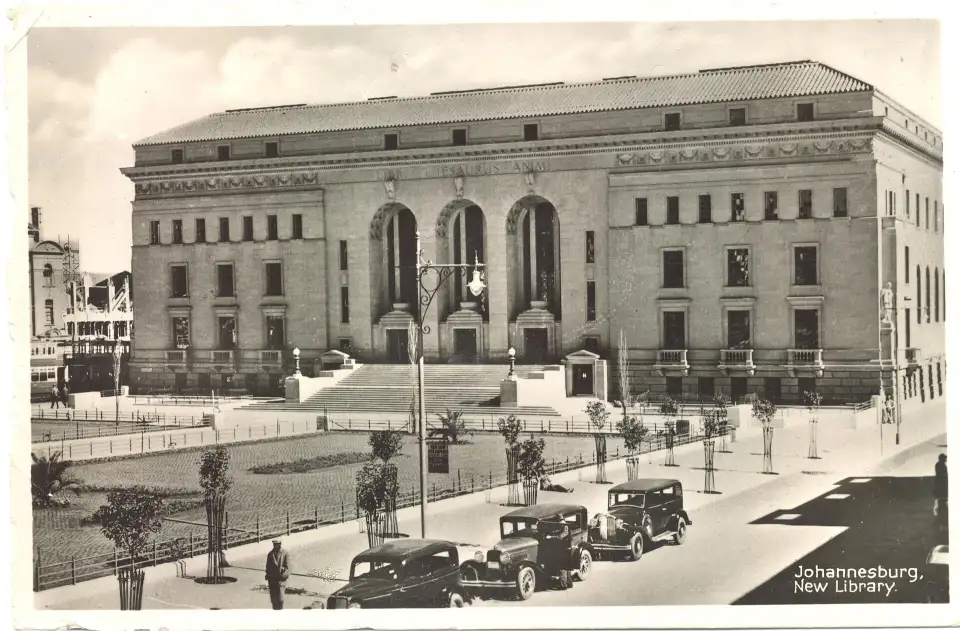
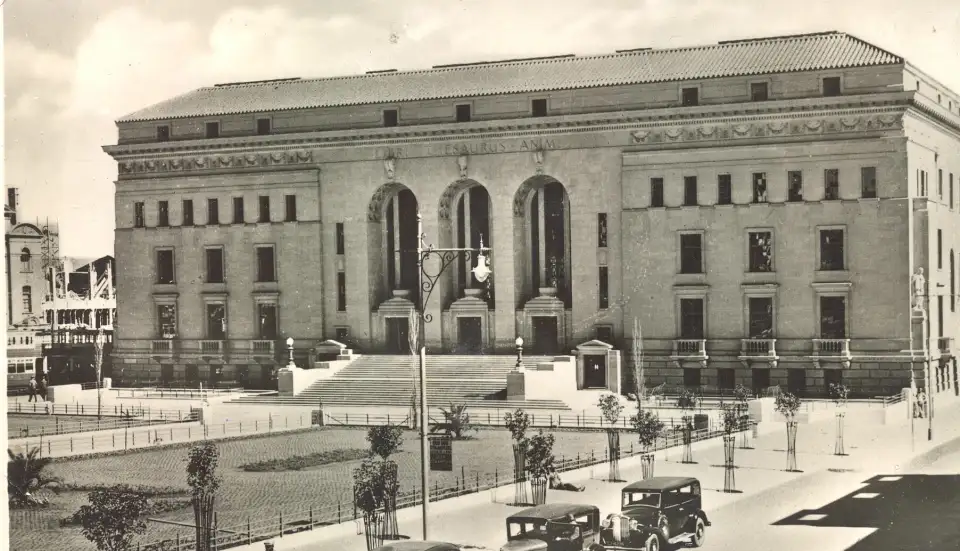
R-47 ds: finish-review fixes (stage colours as data only, no shadows at rest, no sticky sheets, word spacing, heading order, re-cropped archival photos, shelf at the fold)

diff --git a/resources/css/ds/landing.css b/resources/css/ds/landing.css
@@ -8,6 +8,7 @@
     font-size: var(--td-text-display);
     line-height: var(--td-leading-display);
     letter-spacing: -0.02em;
+    word-spacing: 0.12em;
     color: var(--td-ink);
 }
 
@@ -40,6 +41,7 @@
     font-size: var(--td-text-2xl);
     line-height: 1.04;
     letter-spacing: -0.015em;
+    word-spacing: 0.12em;
     max-width: 18ch;
 }
 
@@ -78,7 +80,7 @@
 
 /* Hero */
 .lp-hero {
-    padding-block: var(--td-space-6) var(--td-space-8);
+    padding-block: var(--td-space-6) var(--td-space-7);
 }
 
 .lp-hero__grid {
@@ -89,7 +91,11 @@
 
 @media (min-width: 64rem) {
     .lp-hero {
-        padding-block: var(--td-space-7) var(--td-space-9);
+        padding-block: var(--td-space-6) var(--td-space-7);
+    }
+
+    .lp-rooms {
+        padding-top: var(--td-space-7);
     }
 
     .lp-hero__grid {
@@ -122,8 +128,7 @@
     margin: calc(var(--td-space-7) * -1) var(--td-space-4) 0;
     padding: var(--td-space-4) var(--td-space-5) var(--td-space-5);
     background: var(--td-surface);
-    border: 1px solid var(--td-line); /* taste-skill-ignore: interface fragment (data-ui) or a real list of languages */
-    box-shadow: var(--td-shadow-float); /* taste-skill-ignore: interface fragment (data-ui) or a real list of languages */
+    border: 1px solid var(--td-edge);
     max-width: 26rem;
 }
 
@@ -373,9 +378,10 @@
     font-family: var(--td-font-display);
     font-stretch: 62%;
     font-weight: 780;
-    font-size: clamp(3.25rem, 1rem + 9vw, 9.5rem);
-    line-height: 0.92;
+    font-size: clamp(3rem, 1rem + 5.6vw, 6rem);
+    line-height: 0.95;
     letter-spacing: -0.02em;
+    word-spacing: 0.14em;
     white-space: nowrap;
     color: var(--td-ink);
 }
@@ -394,10 +400,8 @@
     position: relative;
     padding: var(--td-space-5);
     background: var(--td-surface);
-    border: 1px solid var(--td-line); /* taste-skill-ignore: interface fragment (data-ui) or a real list of languages */
-    box-shadow: var(--td-shadow-float); /* taste-skill-ignore: interface fragment (data-ui) or a real list of languages */
+    border: 1px solid var(--td-edge);
     max-width: 30rem;
-    margin-top: calc(var(--td-space-8) * -1);
     margin-inline-start: auto;
 }
 
@@ -417,7 +421,7 @@
     gap: var(--td-space-2);
     margin-top: var(--td-space-5);
     padding-top: var(--td-space-4);
-    border-top: 1px solid var(--td-line); /* taste-skill-ignore: interface fragment (data-ui) or a real list of languages */
+    border-top: 1px solid var(--td-line);
 }
 
 .lp-how__text .lp-h2 {
@@ -440,17 +444,16 @@
         grid-row: 1 / 3;
     }
 
-    .lp-how__card {
-        grid-column: 8 / 13;
-        grid-row: 1;
-        margin: var(--td-space-8) 0 0;
-        align-self: start;
-    }
-
     .lp-how__text {
         grid-column: 8 / 13;
+        grid-row: 1;
+    }
+
+    .lp-how__card {
+        grid-column: 7 / 13;
         grid-row: 2;
-        align-self: end;
+        margin: 0;
+        align-self: start;
     }
 }
 
@@ -470,27 +473,27 @@
     display: grid;
     gap: var(--td-space-5);
     padding: var(--td-space-5);
-    min-height: 70svh;
     align-content: start;
 }
 
 .lp-sheet--learn {
-    background: var(--td-stage-foundation);
-    color: var(--td-stage-foundation-ink);
+    background: var(--td-sunken);
+    color: var(--td-ink);
 }
 
 .lp-sheet--teach {
-    background: var(--td-stage-doctoral);
-    color: var(--td-stage-doctoral-ink);
+    background: var(--td-deep);
+    color: var(--td-deep-ink);
 }
 
 .lp-sheet--guard {
-    background: var(--td-stage-senior);
-    color: var(--td-stage-senior-ink);
+    background: var(--td-primary-soft);
+    color: var(--td-primary-soft-ink);
 }
 
 .lp-sheet__title {
     margin: 0 0 var(--td-space-4);
+    word-spacing: 0.12em;
     font-family: var(--td-font-display);
     font-stretch: var(--td-display-stretch);
     font-weight: 760;
@@ -540,9 +543,9 @@
 }
 
 .lp-sheet .td-btn--primary {
-    --td-btn-bg: var(--td-stage-doctoral-ink);
-    --td-btn-ink: var(--td-stage-doctoral);
-    --td-btn-edge: var(--td-stage-doctoral-ink);
+    --td-btn-bg: var(--td-deep-ink);
+    --td-btn-ink: var(--td-deep);
+    --td-btn-edge: var(--td-deep-ink);
     --td-btn-bg-hover: var(--td-inverse-hover);
     --td-btn-bg-press: var(--td-inverse-press);
 }
@@ -553,33 +556,18 @@
 
 @media (min-width: 64rem) {
     .lp-sheets {
-        gap: 0;
+        gap: var(--td-space-1);
     }
 
     .lp-sheet {
-        position: sticky;
-        top: var(--td-space-5);
         grid-template-columns: minmax(0, 5fr) minmax(0, 6fr);
         gap: var(--td-space-8);
         padding: var(--td-space-7);
-        min-height: 36rem;
-        align-items: end;
+        align-items: center;
     }
 
-    .lp-sheet + .lp-sheet {
-        margin-top: var(--td-space-8);
-    }
-
-    .lp-sheet--teach {
-        top: calc(var(--td-space-5) + 4.5rem);
-    }
-
-    .lp-sheet--guard {
-        top: calc(var(--td-space-5) + 9rem);
-    }
-
-    .lp-sheet__text {
-        align-self: start;
+    .lp-sheet--teach .lp-sheet__text {
+        order: 2;
     }
 }
 
@@ -604,7 +592,7 @@
 .lp-langsheet {
     padding: var(--td-space-6) var(--td-space-5);
     background: var(--td-surface);
-    border: 1px solid var(--td-line); /* taste-skill-ignore: interface fragment (data-ui) or a real list of languages */
+    border: 1px solid var(--td-line);
 }
 
 @media (min-width: 48rem) {
@@ -638,7 +626,7 @@
     align-items: baseline;
     gap: var(--td-space-3);
     padding: var(--td-space-2) 0;
-    border-bottom: 1px solid var(--td-line); /* taste-skill-ignore: interface fragment (data-ui) or a real list of languages */
+    border-bottom: 1px solid var(--td-line);
     break-inside: avoid;
     font-family: var(--td-font-display);
     font-stretch: 85%;
@@ -665,7 +653,7 @@
 .lp-close {
     position: relative;
     overflow: clip;
-    background: var(--td-stage-undergraduate);
+    background: var(--td-deep);
 }
 
 .lp-close__img {
@@ -674,9 +662,8 @@
     width: 100%;
     height: 100%;
     object-fit: cover;
-    filter: grayscale(1) contrast(1.1);
-    mix-blend-mode: multiply;
-    opacity: 0.7;
+    filter: grayscale(1) contrast(1.05);
+    opacity: 0.38;
 }
 
 .lp-close__inner {

diff --git a/resources/css/ds/tokens.css b/resources/css/ds/tokens.css
@@ -109,6 +109,10 @@
     --td-radius: 0.25rem;
     --td-radius-pill: 999px;
 
+    /* Deep reading-room green: the footer and inverse bands. Dark in both themes. */
+    --td-deep: oklch(26% 0.035 165);
+    --td-deep-ink: oklch(96% 0.01 165);
+
     /* Scrim behind dialogs and the drawer. */
     --td-scrim: oklch(20% 0.02 165 / 0.55);
 
@@ -202,6 +206,7 @@
         --td-info-ink: oklch(86% 0.06 255);
         --td-shadow-float: 0 12px 32px -8px oklch(5% 0.01 165 / 0.7), 0 2px 6px oklch(5% 0.01 165 / 0.5);
         --td-stage-fet-text: oklch(74% 0.11 262);
+        --td-deep: oklch(13.5% 0.012 165);
     }
 }
 
@@ -240,4 +245,5 @@
     --td-info-ink: oklch(86% 0.06 255);
     --td-shadow-float: 0 12px 32px -8px oklch(5% 0.01 165 / 0.7), 0 2px 6px oklch(5% 0.01 165 / 0.5);
     --td-stage-fet-text: oklch(74% 0.11 262);
+    --td-deep: oklch(13.5% 0.012 165);
 }

diff --git a/resources/css/ds/shells.css b/resources/css/ds/shells.css
@@ -113,8 +113,8 @@
 }
 
 .td-public-foot {
-    background: var(--td-stage-doctoral);
-    color: var(--td-stage-doctoral-ink);
+    background: var(--td-deep);
+    color: var(--td-deep-ink);
 }
 
 .td-public-foot a {
@@ -171,13 +171,13 @@
     justify-content: space-between;
     gap: var(--td-space-3);
     padding-block: var(--td-space-4) var(--td-space-5);
-    border-top: 1px solid color-mix(in oklch, var(--td-stage-doctoral-ink) 22%, transparent);
+    border-top: 1px solid color-mix(in oklch, var(--td-deep-ink) 22%, transparent);
     font-size: var(--td-text-sm);
 }
 
 .td-public-foot :focus-visible {
-    outline-color: var(--td-stage-doctoral-ink);
-    box-shadow: 0 0 0 2px var(--td-stage-doctoral);
+    outline-color: var(--td-deep-ink);
+    box-shadow: 0 0 0 2px var(--td-deep);
 }
 
 /* ---------- Signed-in shells ---------- */

diff --git a/resources/views/welcome.blade.php b/resources/views/welcome.blade.php
@@ -151,6 +151,11 @@
                 <span class="lp-how__line is-faint">in isiZulu</span>
                 <span class="lp-how__line is-faint">after school</span>
             </div>
+            <div class="lp-how__text">
+                <h2 id="how-title" class="lp-h2">Matches that explain themselves</h2>
+                <p>Write your request the way you would say it. Dot.Tutor checks subject, level, curriculum, language, times and budget, and tells you which ones fit and which do not.</p>
+                <p>Language is matched on what a tutor can actually teach in, never on the language of your screen.</p>
+            </div>
             <div class="lp-how__card" data-ui>
                 <p class="lp-how__card-head">How a match explains itself <span>(example)</span></p>
                 <x-td.match-reasons label="Example match reasons" :reasons="[
@@ -164,11 +169,6 @@
                     <x-td.verify-badge status="verified" level="qualified" />
                     <x-td.language-chip code="zu" name="Zulu" endonym="isiZulu" role="teaches" verified match />
                 </div>
-            </div>
-            <div class="lp-how__text">
-                <h2 id="how-title" class="lp-h2">Matches that explain themselves</h2>
-                <p>Write your request the way you would say it. Dot.Tutor checks subject, level, curriculum, language, times and budget, and tells you which ones fit and which do not.</p>
-                <p>Language is matched on what a tutor can actually teach in, never on the language of your screen.</p>
             </div>
         </div>
     </section>
